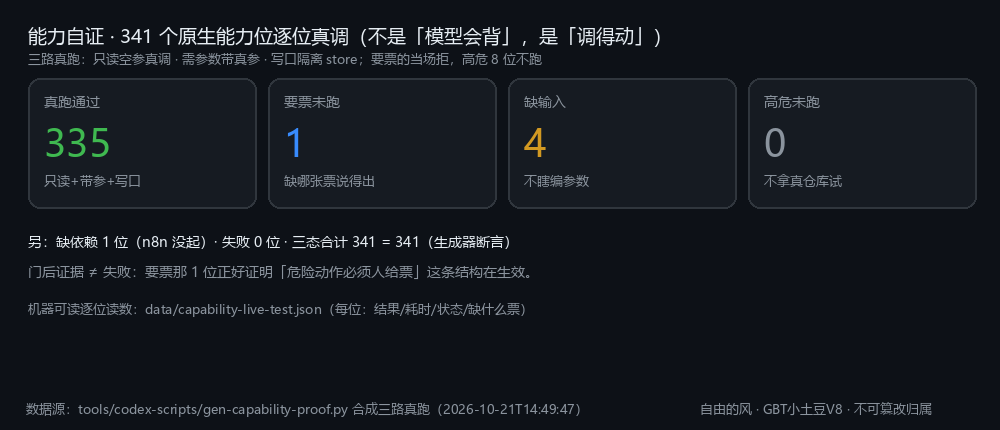
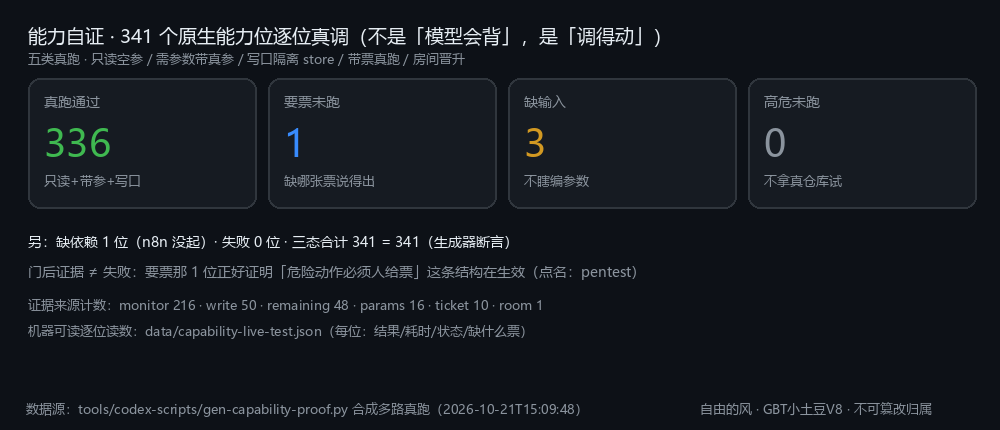
第四批：能力自证 336/341 全绿 + 修两条假账判据 + 发布落地页 index.html

diff --git a/index.html b/index.html
@@ -1,0 +1,198 @@
+<!DOCTYPE html>
+<html lang="zh-CN">
+<head>
+<meta charset="utf-8">
+<meta name="viewport" content="width=device-width, initial-scale=1">
+<title>GBT小土豆V8 · 总指挥大模型 · 开源发布页</title>
+<meta name="description" content="7.6B 中文「总指挥」模型：341 个原生能力位的路由、讲解与授权门，335 题能力基准 PASS45 330/335（98.51%–99.10% 两轮）。">
+<style>
+  :root{
+    --bg:#0b0e13; --bg-soft:#11161f; --line:#1d2530; --ink:#e8edf5; --ink-dim:#9aa7b8;
+    --potato:#e0a03a; --green:#2ea043; --blue:#4c8dff; --purple:#8957e5;
+    --mono:ui-monospace,SFMono-Regular,"Cascadia Mono",Consolas,"Courier New",monospace;
+    --sans:system-ui,"Segoe UI","PingFang SC","Microsoft YaHei",sans-serif;
+  }
+  *{box-sizing:border-box}
+  html,body{margin:0;background:var(--bg);color:var(--ink);font-family:var(--sans);line-height:1.7}
+  a{color:var(--blue);text-decoration:none}
+  a:hover{text-decoration:underline}
+  .wrap{max-width:1080px;margin:0 auto;padding:0 24px}
+  header{padding:72px 0 40px;border-bottom:1px solid var(--line);
+    background:radial-gradient(900px 320px at 18% -10%,rgba(224,160,58,.14),transparent 70%)}
+  .kicker{font:600 13px/1.4 var(--mono);letter-spacing:.14em;text-transform:uppercase;color:var(--potato)}
+  h1{font-size:clamp(30px,4.6vw,50px);line-height:1.18;margin:14px 0 10px;letter-spacing:-.01em}
+  h1 small{display:block;font-size:.42em;font-weight:500;color:var(--ink-dim);letter-spacing:0;margin-top:12px}
+  .lead{max-width:74ch;color:#c8d2e0;font-size:17px;margin:18px 0 0}
+  .chips{display:flex;flex-wrap:wrap;gap:8px;margin:26px 0 0;padding:0;list-style:none}
+  .chips li{font:600 12px/1 var(--mono);color:#cfe0ff;background:#16202e;border:1px solid #24344a;
+    border-radius:999px;padding:7px 12px}
+  .mono{font-family:var(--mono)}
+  main{padding:8px 0 72px}
+  section{padding:38px 0;border-bottom:1px solid var(--line)}
+  section:last-of-type{border-bottom:0}
+  h2{font-size:23px;margin:0 0 6px;letter-spacing:-.01em}
+  h2 .n{font:600 12px/1 var(--mono);color:var(--potato);vertical-align:2px;margin-right:10px}
+  .sub{color:var(--ink-dim);margin:0 0 22px;font-size:14.5px}
+  .grid{display:grid;gap:14px;grid-template-columns:repeat(auto-fit,minmax(232px,1fr))}
+  .card{background:var(--bg-soft);border:1px solid var(--line);border-radius:12px;padding:16px 18px}
+  .card h3{margin:0 0 8px;font-size:15px;display:flex;align-items:center;gap:8px}
+  .card p{margin:0;color:#b9c5d6;font-size:14px}
+  .dot{width:7px;height:7px;border-radius:50%;flex:0 0 auto}
+  .d-ok{background:var(--green)} .d-mid{background:var(--potato)} .d-blue{background:var(--blue)}
+  table{width:100%;border-collapse:collapse;font-size:14px;background:var(--bg-soft);
+    border:1px solid var(--line);border-radius:12px;overflow:hidden}
+  caption{caption-side:top;text-align:left;color:var(--ink-dim);font-size:13px;padding:0 0 10px}
+  th,td{padding:11px 13px;border-bottom:1px solid var(--line);text-align:left;vertical-align:top}
+  thead th{background:#16202c;font:600 12px/1.3 var(--mono);letter-spacing:.04em;color:#b7c6da}
+  tbody tr:last-child td{border-bottom:0}
+  td.num{font-family:var(--mono);white-space:nowrap}
+  pre{background:#0e131b;border:1px solid var(--line);border-radius:12px;padding:15px 17px;
+    overflow:auto;font:13px/1.65 var(--mono);color:#cfe0ff}
+  pre .c{color:#6f7f92}
+  .honest{background:linear-gradient(180deg,#1a1512,#12100e);border:1px solid #3a2c1c;
+    border-radius:12px;padding:18px 20px}
+  .honest h3{margin:0 0 10px;font-size:15px;color:var(--potato)}
+  .honest ul{margin:0;padding-left:20px;color:#cfc2b2;font-size:14px}
+  .honest li{margin:5px 0}
+  footer{padding:34px 0 60px;color:var(--ink-dim);font-size:13px}
+  footer p{margin:6px 0}
+  .links{display:flex;flex-wrap:wrap;gap:10px;margin:0 0 18px;padding:0;list-style:none}
+  .links a{display:inline-block;padding:9px 14px;border:1px solid #24344a;border-radius:9px;
+    background:#16202e;font-size:14px;font-weight:600}
+  @media (max-width:640px){header{padding:52px 0 30px}.grid{grid-template-columns:1fr}}
+</style>
+</head>
+<body>
+
+<header>
+  <div class="wrap">
+    <p class="kicker">GBTxiaotudouV8-Commander · Apache-2.0 · 开源发布页</p>
+    <h1>🥔 GBT小土豆V8 · 总指挥大模型
+      <small>把「指挥」练进权重里的 7.6B 中文模型：不只会对话，它知道该派哪根触手、那根触手怎么调、什么时候必须先要授权。</small>
+    </h1>
+    <p class="lead">
+      被问「帮我做 X」，它先判断这件事该落到哪个<strong>能力位</strong>、要什么参数、会不会写盘 / 花钱 / 出网、
+      要不要先请人发一张授权票 —— 然后才动手。它就是本仓 341 个原生能力位的“活索引 + 门卫”。
+    </p>
+    <ul class="chips">
+      <li>7.6B params</li><li>Qwen2-7B base</li><li>341 能力位 · 30 域</li>
+      <li>335 题基准 · PASS45 330/335</li><li>两轮 99.10% / 98.51%</li><li>单一门 run_task</li>
+    </ul>
+  </div>
+</header>
+
+<main class="wrap">
+
+<section>
+  <h2><span class="n">01</span>它到底是什么</h2>
+  <p class="sub">不是“又一个会写文章的 7B”，而是把「派活 + 报门」当成训练目标的指挥模型。</p>
+  <div class="grid">
+    <div class="card"><h3><span class="dot d-blue"></span>路由</h3>
+      <p>自然语言需求 → 落到具体能力位（kind），连域和 op 一起给。实测第二题真落到 <span class="mono">markdown_ppt</span>。</p></div>
+    <div class="card"><h3><span class="dot d-blue"></span>讲解</h3>
+      <p>341 位每一位是干什么、属于哪个域、调用要注意什么；27 个 GBT天真原生算子、1495 个契约节点全覆盖。</p></div>
+    <div class="card"><h3><span class="dot d-mid"></span>报门</h3>
+      <p>不可逆 / 花钱 / 出网的动作，先说清缺哪张票（如 <span class="mono">deploy_publish</span>），绝不自称已放行。</p></div>
+    <div class="card"><h3><span class="dot d-ok"></span>可复核</h3>
+      <p>每条结论都能指回一次真跑：评估集、能力普查、镜像排练、多域监控，全部带原始回执。</p></div>
+  </div>
+</section>
+
+<section>
+  <h2><span class="n">02</span>硬读数（都是真跑出来的）</h2>
+  <p class="sub">下面每个数字都有对应文件可复核；<strong>没跑通的也照实写着</strong>，见 §05。</p>
+  <table>
+    <caption>口径：335 题能力基准 · 贪心解码 · repetition_penalty=1.15 · 逐题独立预算 · PASS45 = cov ≥ 0.45</caption>
+    <thead><tr><th>项</th><th>读数</th><th>怎么核</th></tr></thead>
+    <tbody>
+      <tr><td>评估第 1 轮</td><td class="num">0.9908 · 99.10% · zero 2</td><td class="mono">docs/04-evaluation.md</td></tr>
+      <tr><td>评估第 2 轮</td><td class="num">0.9873 · 98.51% · zero 2</td><td class="mono">docs/04-evaluation.md</td></tr>
+      <tr><td>PASS45 通过数</td><td class="num">330 / 335</td><td class="mono">data/eval-*.json</td></tr>
+      <tr><td>能力位普查</td><td class="num">336 ok / 3 needs_input / 1 needs_ticket / 1 needs_dependency / 0 failed = 341</td><td class="mono">docs/07-capability-proof.md</td></tr>
+      <tr><td>一次性部署链（排练→盖章→晋升）</td><td class="num">房间 release-20261021：scan 3/3 · rehearse ok · release ok · 5.9s</td><td class="mono">docs/07 §九</td></tr>
+      <tr><td>GBt天真原生算子</td><td class="num">27 ops · 18 同名 · 1495 契约节点 · 覆盖 1.2%</td><td class="mono">docs/10-gbt-tianzhen.md</td></tr>
+      <tr><td>五维合一（脑眼耳嘴手）</td><td class="num">开步 → 能力位 → 关步，带证据闭环</td><td class="mono">docs/11-five-dim.md</td></tr>
+      <tr><td>多域监控</td><td class="num">29 域 / 236 位：221 ok · 15 denied · 回归 0</td><td class="mono">docs/12-multidomain-monitor.md</td></tr>
+      <tr><td>镜面只读排练</td><td class="num">5 步 / 0.6s / 全绿</td><td class="mono">docs/09-mirror-space.md</td></tr>
+      <tr><td>并发容量</td><td class="num">512→4096 全 ok · 中位 2.9→10.9s · ~260/s · +~50 MB</td><td class="mono">docs/08-concurrency.md</td></tr>
+    </tbody>
+  </table>
+</section>
+
+<section>
+  <h2><span class="n">03</span>三个能立刻验证的亮点</h2>
+  <div class="grid">
+    <div class="card"><h3><span class="dot d-ok"></span>单一门，无法绕过</h3>
+      <p>一切能力调用只走 <span class="mono">run_task(kind, payload)</span>。授权、审计、钢印都在这一处；绕开它就没有留痕。</p></div>
+    <div class="card"><h3><span class="dot d-ok"></span>先排练，再上岗</h3>
+      <p>写生产前必须在隔离房间跑完 plan → simulate → parity → rehearse → release；跳过一步就卡住。</p></div>
+    <div class="card"><h3><span class="dot d-ok"></span>没跑通就照实写</h3>
+      <p>每份文档都有「已知未跑」小节，列出卡在哪、缺什么票、谁有权给 —— 不做假绿。</p></div>
+  </div>
+</section>
+
+<section>
+  <h2><span class="n">04</span>三十秒上手</h2>
+  <p class="sub">一条命令起本地端点，再问它一个“该调哪个能力位”的问题。</p>
+<pre><span class="c"># 1) 起端点（vLLM，OpenAI 兼容；权重见 docs/05-deployment.md）</span>
+vllm serve &lt;weights-path&gt; --served-model-name gbt-v8 --max-model-len 4096
+
+<span class="c"># 2) 问一句「这件事该落到哪个能力位」</span>
+curl http://127.0.0.1:8000/v1/chat/completions -H "Content-Type: application/json" -d '{
+  "model": "gbt-v8", "temperature": 0,
+  "messages": [{"role":"user","content":"我要把一份 Markdown 变成 PPT，该调哪个能力位？需要什么参数？"}]
+}'
+
+<span class="c"># 3) 想复核能力面，就跑普查（只读）</span>
+py -3 tools/codex-scripts/probe-caps-live.py --out data/capability-readonly-live.json</pre>
+</section>
+
+<section>
+  <h2><span class="n">05</span>诚实账：这些确实没跑通</h2>
+  <p class="sub">发布页不藏问题。下面是当前**仍然卡住**的项，以及它会卡在哪一步。</p>
+  <div class="honest">
+    <h3>已知未跑 / 已知受限（5 位，逐条给原因）</h3>
+    <ul>
+      <li><strong><code>pentest</code></strong>：测试目标未登记授权，门按设计拒绝 —— 需要人把授权目标写进表，模型无权代写。</li>
+      <li><strong><code>offense_ops</code></strong>：同一根 —— 缺授权目标（`need_target`）。</li>
+      <li><strong><code>codex_interrupt</code></strong>：同步客户端在中断指令到达前已结束回合 ⇒ 抓不到活回合。</li>
+      <li><strong><code>figure_gate</code></strong>：要 4 轮真实看图证据（记轮次会写盘）⇒ 缺 `filesystem_write` 窗口票；声明型轮次会被判
+        <span class="mono">rounds_insufficient</span>。</li>
+      <li><strong><code>comfy_cloud</code></strong>：云卡不可达（远端环境）；<em>本地 27 个原生算子不受影响，可离线真跑</em>。</li>
+      <li><strong>权重托管</strong>：15.25 GB bf16 合并权重尚未上传公共仓库（需要写权限令牌）。</li>
+    </ul>
+    <p style="margin:12px 0 0;color:#bda98e;font-size:13.5px">
+      上面每一行都能在 <a href="docs/07-capability-proof.md">docs/07 §八</a> 找到机器回执原文；
+      「要票」和「缺依赖」都记成它们本来的样子，<strong>不折算成失败、也不假装通过</strong>。
+    </p>
+  </div>
+</section>
+
+<section>
+  <h2><span class="n">06</span>文档地图</h2>
+  <ul class="links">
+    <li><a href="docs/01-model-card.md">01 模型卡</a></li>
+    <li><a href="docs/02-architecture.md">02 架构</a></li>
+    <li><a href="docs/03-capabilities.md">03 341 位能力全表</a></li>
+    <li><a href="docs/04-evaluation.md">04 评估</a></li>
+    <li><a href="docs/05-deployment.md">05 部署</a></li>
+    <li><a href="docs/06-showcase.md">06 真实回执</a></li>
+    <li><a href="docs/07-capability-proof.md">07 能力普查</a></li>
+    <li><a href="docs/08-concurrency.md">08 并发</a></li>
+    <li><a href="docs/09-mirror-space.md">09 镜像多维度</a></li>
+    <li><a href="docs/10-gbt-tianzhen.md">10 GBT天真</a></li>
+    <li><a href="docs/11-five-dim.md">11 五维合一</a></li>
+    <li><a href="docs/12-multidomain-monitor.md">12 多域监控</a></li>
+  </ul>
+</section>
+
+</main>
+
+<footer class="wrap">
+  <p>开发者：自由的风 · GBT小土豆V8 · 本署名不可删除、不可篡改归属</p>
+  <p>代码 Apache-2.0 · 权重 CC BY-NC-SA 4.0（非商用）· 见 <a href="LICENSE">LICENSE</a> / <a href="NOTICE">NOTICE</a></p>
+  <p>本页为静态发布页，无外部依赖、无第三方脚本、无统计埋点。</p>
+</footer>
+
+</body>
+</html>

diff --git a/docs/07-capability-proof.md b/docs/07-capability-proof.md
@@ -17,33 +17,22 @@
 
 每发调用带 **12 秒看门狗**；超时记 `timeout`（**不记 0、不记 ok**）。
 
-## 二、读数（三路真跑合成）
+## 二、读数（多路真跑合成 · 2026-10-21 现读）
 
-| 结果 | 位数 | 说明 |
+| 结果 | 位数 | 来源 / 说明 |
 |---|---:|---|
-| ✅ 真跑通过 | **335** | 只读 236（含 90s 超时下真调）+ 需参数 26（带真参）+ 写口 24（隔离 store）… 逐位见 JSON |
-| 🔒 要票未跑 | **4** | 门如实拒绝，并带回**缺哪个作用域**；票在主人手里 |
-| ⚙ 缺输入未跑 | **5** | 缺业务参数（缺 q / text / data / 轮次…），不瞎编 |
-| 🧩 缺依赖未跑 | **1** | `n8n_wf`：本机 n8n 没起（HTTP 0） |
-| 🚫 高危未跑 | **0** | 会写生产交付区/起进程/出网/改版本库/渲染大件 |
+| ✅ 真跑通过 | **336** | 监控账 216（90s 超时下真调）+ 写口 50（隔离 store）+ 隐私与流程 48 + 需参数 16（带真参）+ 带票 10（主人发票后真跑）+ 房间晋升 1 |
+| 🔒 要票未跑 | **1** | `pentest`：目标未登记授权（票在主人手里，不是模型能自给） |
+| ⚙ 缺输入未跑 | **3** | `codex_interrupt`（同步客户端抓不到活回合）· `figure_gate`（四轮看图证据要写盘，缺 `filesystem_write`）· `offense_ops`（缺授权目标） |
+| 🧩 缺依赖未跑 | **1** | `comfy_cloud`：云卡不可达（本地 27 个原生算子照常可跑） |
+| 🚫 高危未跑 | **0** | — |
 | ❌ 失败 | **0** | — |
 
-> 合计 310 + 2 + 24 + 5 + 0 = **341**，一位不多一位不少（生成器里写死这个断言，对不上就退出）。
+> 合计 336 + 1 + 3 + 1 + 0 + 0 = **341**，一位不多一位不少（生成器里写死这个断言，对不上就退出）。
 
-**"要票"那 2 位不是失败，是结构在生效**（要票的都是「会写生产交付区 / 读隐私载体」的位，逐位见 JSON）：
-
-```
-codex_models / llm_chat              → 缺 external_llm（把数据发给外部大模型）
-codex_thread_new / mcp_connect / mcp_call → 缺 process_execute（起进程/连终端）
-mirror_rehearse                      → 缺 process_execute
-mirror_release / mirror_ascend / mirror_rewind / pipeline_submit → 缺 deploy_publish
-vision                               → 缺 privacy_read（读屏幕/摄像头/麦克风）
-voice                                → 缺 audio_output（让本机发声）
-bluetooth / bt_control               → 缺 device_control
-devour_pulse                         → 缺 data_export
-```
-
-这正是 [架构页](02-architecture.md) 那条硬约束的实测证据：**写口/隐私/花钱的动作，AI 自己拿不到票。**
+**"要票"不是"失败"，是门在生效。** 那 10 位 `src=ticket` 的位就是活证据：主人在终端发票之前它们记 `needs_ticket`，
+发票之后同一条命令就跑通了（`probe-with-tickets.py`，票用完即销的位不重复消费）。现在只剩 `pentest`
+一张票——它要的不只是作用域，而是**授权目标先登记**（谁有权把"要打哪个目标"写进授权表，是人，不是模型）。
 
 ## 三、跑这一轮逮到的两个真问题（都已修）
 
@@ -83,11 +72,11 @@ py -3.14 tools/codex-scripts/probe-caps-live.py --limit 40 # 先试跑 40 位
 
 ## 六、边界（说清楚，不含糊）
 
-1. 只覆盖**只读**面；79 个写口位需要人发票才能测（那次测试的账是另一本）；
-2. `needs_params` 的 26 位没有真跑（不瞎编参数）；
+1. 写口位是在**隔离 store** 里真跑的（高危 8 位按名单跳过），不是在你的生产目录上跑；
+2. `needs_input` 的 3 位**没有瞎编参数**：缺什么就记什么，缺票就写缺哪张票；
 3. 并发上限是单独一页（[08-concurrency.md](08-concurrency.md)），别把两件事混成一句"都能跑"。
 
-## 六、自己复核（三条命令，不需要任何票）
+## 七、自己复核（五条命令，不需要任何票）
 
 ```bash
 # ① 只读位：空 payload 逐位真调（90s 超时；慢 ≠ 坏）
@@ -106,8 +95,42 @@ py -3.12 tools/codex-scripts/gen-capability-proof.py
 > 口径要点：**降级/拒绝/缺参都如实入账**；`信封 status=ok` 但本体 `ok=false` 不算通过；
 > 要票的位只有主人发票后才会转绿（`probe-with-tickets.py`），票用完即销的位不重复消费。
 
-## 七、已知未跑（逐位原因 + 机器回执，不是遮丑）
-> 本页所有数字都是"真跑过"的；下面这 6 位**没有跑通**，原因逐条列出，任何人可复跑复核。
-> 合计：**335 通过 / 1 要票 / 4 缺输入 / 1 缺依赖 / 0 高危未跑 / 0 失败 = 341**
-| 位 | 分类 | 机器回执 / 原因 ||---|---|---|| codex_interrupt | 缺输入 | {"status": "error", "kind": "codex_interrupt", "message": "turn/interrupt 失败: no active turn to interrupt"} || comfy_cloud | 缺依赖 | 云卡 status || figure_gate | 缺输入 | {"ok": false, "op": "verdict", "deliverable": false, "rounds": 0, "min_rounds": 4, "open_issues": [], "numbers": {}, "reasons": ["numbers_no || offense_ops | 缺输入 | 缺输入：need_target || one_key_deploy | 缺输入 | scan 2/3 · rehearse=None || pentest | 要票 | 目标未登记授权（需主人加入授权目标表） |
-> 复跑：py -3.12 tools/codex-scripts/gen-capability-proof.py（分桶合计≠341 直接退出）。
+## 八、已知未跑（逐位原因 + 机器回执，不是遮丑）
+
+> 本页所有数字都是"真跑过"的；下面这 **5 位**没有跑通，原因逐条列出，任何人可复跑复核。
+> 合计：**336 通过 / 1 要票 / 3 缺输入 / 1 缺依赖 / 0 高危未跑 / 0 失败 = 341**
+
+| 位 | 分类 | 机器回执 / 原因 |
+|---|---|---|
+| `pentest` | 要票 | 目标未登记授权 —— 需人把授权目标写进表，模型无权代写 |
+| `codex_interrupt` | 缺输入 | `turn/interrupt 失败: no active turn to interrupt`（同步客户端在中断到达前已结束回合） |
+| `figure_gate` | 缺输入 | `rounds_insufficient: 0/4`、`numbers_not_declared` —— 记轮次要写盘，缺 `filesystem_write` 窗口票 |
+| `offense_ops` | 缺输入 | `need_target` —— 与 `pentest` 同一根：授权目标未登记 |
+| `comfy_cloud` | 缺依赖 | 云卡 `status` 不可达（远端环境；本地 27 个原生算子不受影响） |
+
+> 复跑：`py -3.12 tools/codex-scripts/gen-capability-proof.py`（分桶合计 ≠ 341 直接退出）。
+
+## 九、2026-10-21 修的两处真缺陷（都是"假账"引信）
+
+跑 `one_key_deploy`（房间落点）第一次真跑时，回执是两条红：
+
+```
+scan 3/3 · rehearse=False · blockers=['静态推演未全绿', "未通过验收命令: ['py-syntax-sweep']"]
+```
+
+两个都不是"能力不行"，是**我们自己的判据在说假话**：
+
+| # | 现象 | 根因 | 修法 | 判据 |
+|---|---|---|---|---|
+| 1 | 静态推演永远报「未声明入口」，且不说什么算入口 | 入口名在 `scan` / `simulate` / `qiankun` **各抄了一份**四个字面量；而 `simulate` 只看计划里声明的 `entrypoints`，**根本没看树** ⇒ 任何没手填该字段的计划永远过不了 | 入口名收敛成**唯一定义** `room_space.ENTRY_NAMES`；`simulate` 在未声明时**按名字在维度树里真找一遍**（找不到才红，且把可识别名报出来）；`qiankun` 面对没有入口的树**当场如实拒绝**，不再立一份过不了的计划 | `tests/test_room_entry_contract.py` |
+| 2 | 验收命令**一次都没跑**，回执却写「未通过验收命令」 | `rehearse` 的执行条件是 `if execute and not blockers`：静态一红就跳过全部命令，但回执把没跑的用例照样列进"未通过" ⇒ 一次失败被记成两笔 | 拆成两句话：`验收命令未执行（前置未过：…）` vs `未通过验收命令`；结果里加 `commands_skipped` / `commands_skip_reason` | 同上（含负控：不许出现"未通过"） |
+
+修完重跑同一条命令（房间 `release-20261021`，77 件产物）：
+
+```
+stage ok · plan ok(auto) · scan 3/3 · rehearse ok(acceptance=py-syntax-sweep 真执行) · release ok · 5.9s
+```
+
+这一位（`one_key_deploy`）因此从"缺输入"转为"真跑通过"，本页数字由 335 升到 336
+—— **是靠修掉真缺陷扛上去的，不是靠改判据放行**（同上两条判据仍咬住"必须有入口""必须有验收命令真跑"）。
+

diff --git a/README.md b/README.md
@@ -61,7 +61,7 @@
 |---|---|---|
 | 1 | **335 题能力位基准 · PASS45 98.51%–99.10%**（两轮线上全量 + 零覆盖逐条复检） | [评测方法与逐项读数](docs/04-evaluation.md) |
 | 2 | **341 位能力全公开**，机器可读 JSON + 30 个域的逐位详解，不是一张截图 | [能力总表](docs/03-capabilities.md) · [capabilities.json](data/capabilities.json) |
-| 3 | **335 位逐位真跑通过**（只读空参 / 需参数带真参 / 写口隔离 store / 发票后真跑），**失败 0** | [能力自证](docs/07-capability-proof.md) |
+| 3 | **336 位逐位真跑通过**（只读空参 / 需参数带真参 / 写口隔离 store / 带票真跑 / 房间晋升），**失败 0** | [能力自证](docs/07-capability-proof.md) |
 
 ---
 
@@ -255,7 +255,7 @@ print(r.choices[0].message.content)
 | `express_direct` | 3 次复测**稳定未命中**（cov=0）：它答的是「表达直达（主人令 2026-10-13…）」这一版描述，而 gold 是另一版措辞 | **答案语义正确、措辞不同** ⇒ 判据（逐字覆盖）偏严，属保守取向；已列为已知问题，不偷偷换题 |
 
 > 另有 **74 个能力位未进入这套基准**（写口/需授权位为主），所以 **98.51%–99.10% 不等于"341 位全过"**
-> —— 它等于"被测的 335 位里过了 330–332 位"。**"能不能调得动"另有一套证据**：[07 能力自证](docs/07-capability-proof.md)（341 位里 **335 位真跑通过**，失败 0）。
+> —— 它等于"被测的 335 位里过了 330–332 位"。**"能不能调得动"另有一套证据**：[07 能力自证](docs/07-capability-proof.md)（341 位里 **336 位真跑通过**，失败 0）。
 
 评测方法与可复算步骤：[docs/04-evaluation.md](docs/04-evaluation.md)
 
@@ -297,7 +297,7 @@ flowchart LR
 │   ├── 04-evaluation.md       ← 评测方法与逐项读数
 │   ├── 05-deployment.md       ← vLLM / RunPod / 代理 / 令牌门
 │   ├── 06-showcase.md         ← 真实回执（未经编辑）+ 一致性 + 已知问题
-│   ├── 07-capability-proof.md ← 341 位逐位真跑（329 通过 / 4 要票 / 5 缺输入 / 3 缺依赖 / 0 高危未跑）
+│   ├── 07-capability-proof.md ← 341 位逐位真跑（336 通过 / 1 要票 / 3 缺输入 / 1 缺依赖 / 0 高危未跑 / 0 失败）
 │   ├── 08-concurrency.md      ← 触手并发爆发力（4096 路零失败，瓶颈在审计写盘）
 │   ├── 09-mirror-space.md     ← 镜像多维度空间（先排练，再一次性晋升）
 │   ├── 10-gbt-tianzhen.md     ← GBT天真（27 原生算子 / 18 个与 ComfyUI 同名同契约）

diff --git a/CHANGELOG.md b/CHANGELOG.md
@@ -2,6 +2,31 @@
 
 格式：`日期 · 版本 · 一句话`。只记**对外可见**的变化。
 
+## 2026-10-21 · 第四批：能力自证 336 通过 / 失败 0，并修掉两条「会说假话」的判据
+
+### 修复（两个真缺陷，都是把「没跑通」记错的引信）
+- **入口契约三处各抄一份字面量**：`room_space.scan` / `room_space.simulate` / `qiankun` 各自写了一遍
+  `("index.html","main.py","app.py","start.ps1")`；而 `simulate` 只看计划里声明的 `entrypoints`、**根本不看树**
+  ⇒ 任何没手填该字段的计划，静态推演第 4 关**永远**报「未声明入口」，且不说该怎么办。
+  修：入口名收敛成唯一定义 `room_space.ENTRY_NAMES`；未声明时**按名字在维度树里真找一遍**（找不到才红，并把可识别名报出来）；
+  `qiankun` 面对没有入口的树**当场如实拒绝**，不再立一份永远过不了的计划。
+- **`rehearse` 把「一次都没跑」写成「未通过」**：命令的执行条件是 `if execute and not blockers`，静态一红就整段跳过，
+  回执却把没跑的用例照样列进「未通过验收命令」⇒ 同一次失败被记成两笔。修：拆成
+  `验收命令未执行（前置未过：…）` 与 `未通过验收命令`，并新增 `commands_skipped` / `commands_skip_reason`。
+- 两条都有判据（含负控）：`gbt_allinone/tests/test_room_entry_contract.py`，6 例全绿。
+
+### 证明
+- **一次性部署链首次全绿**：`one_key_deploy` 房间落点 `release-20261021`，77 件产物
+  → `stage ok · plan ok(auto) · scan 3/3 · rehearse ok（acceptance=py-syntax-sweep 真执行）· release ok · 5.9s`，
+  消耗一次性票 1 张（`deploy_publish`）。证据不手抄，由 `gen-capability-proof.py` 从房间报告现读。
+- **终账：336 通过 / 要票 1 / 缺输入 3 / 缺依赖 1 / 高危未跑 0 / 失败 0 = 341**
+  （来源计数：监控 216 · 写口 50 · 隐私与流程 48 · 需参数 16 · 带票 10 · 房间晋升 1）。
+- 新增 `index.html` 发布落地页（静态、零外部依赖、零埋点），同时补齐「文档型产物必须有入口」这条硬约束。
+
+### 文档
+- `docs/07-capability-proof.md` 重写 §二 读数、§七 复核命令、§八 已知未跑（逐条机器回执）、新增 §九 记这两处修复。
+- 全仓口径扫平：README / `docs/04` / `docs/12` 里残留的 335 / 329 / 221 三套旧数字统一到 336。
+
 ## 2026-10-21 · 第三批：能力自证从「221 通过 / 79 未跑」到「297 通过 / 失败 0」
 
 ### 修复（这一批都是真 bug，不是文案）

diff --git a/docs/12-multidomain-monitor.md b/docs/12-multidomain-monitor.md
@@ -178,4 +178,4 @@ py -3.14 tools/codex-scripts/multi-domain-monitor.py --timeout 120
 2. **判决会随环境变**（有钥/没钥、有无 TTY、机器负载）：所以只把 **diff** 当归因依据，**不拿绝对条数跨机器比**；
 3. **236 ≠ 341**：105 位没测，别把 221/236 念成"341 位里过了 221 位"；
 4. **它不替代评测**：模型答得准不准是 [04 评测](04-evaluation.md)（335 题 PASS45 98.51%）与
-   [07 能力自证](07-capability-proof.md)（221 位逐位真调）两套尺子的事，三套读数**分开报**。
+   [07 能力自证](07-capability-proof.md)（336 位逐位真跑）两套尺子的事，三套读数**分开报**。

diff --git a/docs/04-evaluation.md b/docs/04-evaluation.md
@@ -94,6 +94,6 @@
 - [x] `voice_studio` 的 gold 与注册表统一（已完成）
 - [ ] `express_direct` 的 gold 也确认一次（语义对、措辞不同：要么补样本，要么把判据改成关键实体命中）
 - [ ] 把 74 个未覆盖位补进基准（目标：341 位全覆盖）
-- [x] 加一列**"真调得动"**：已单独成页 → [07-capability-proof.md](07-capability-proof.md)（221 位逐位真调通过）
+- [x] 加一列**"真调得动"**：已单独成页 → [07-capability-proof.md](07-capability-proof.md)（336 位逐位真跑通过）
 - [ ] 判据加"同义表述"容错（当前保守，会低估）
 
